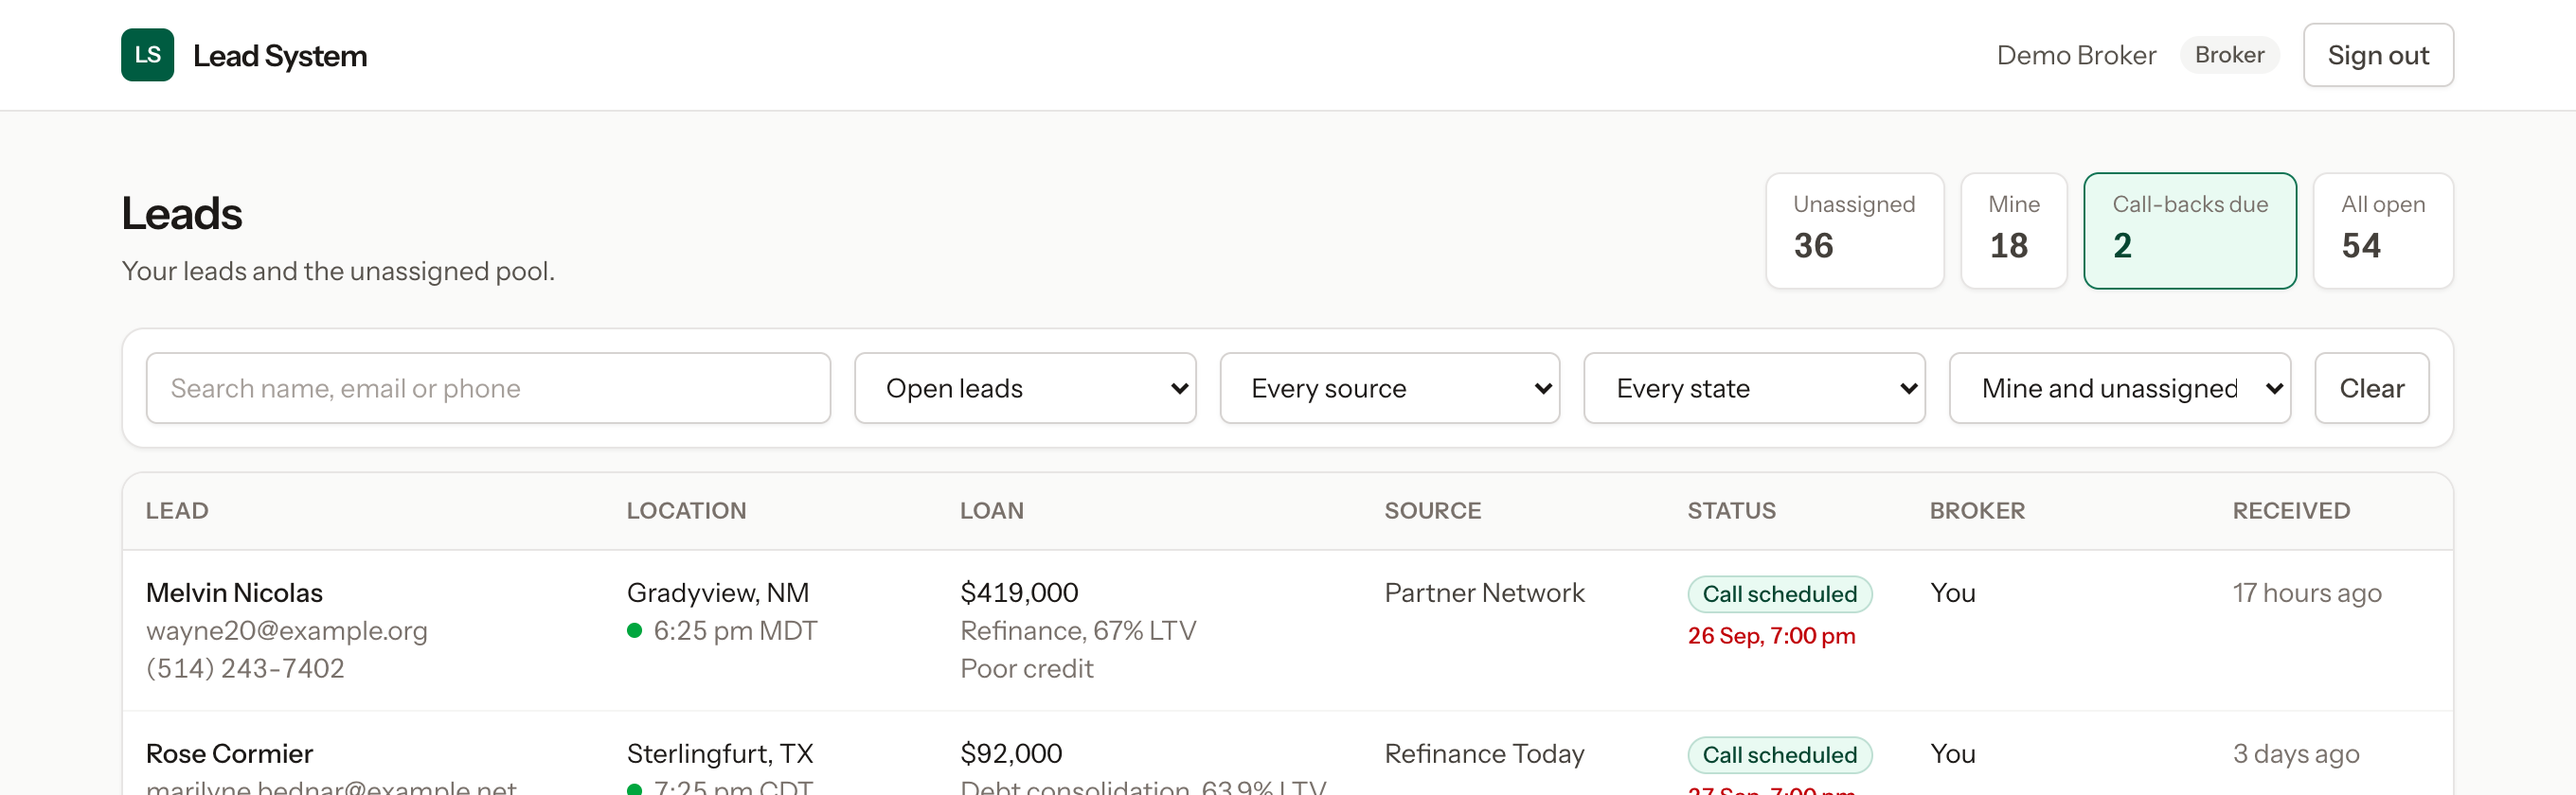
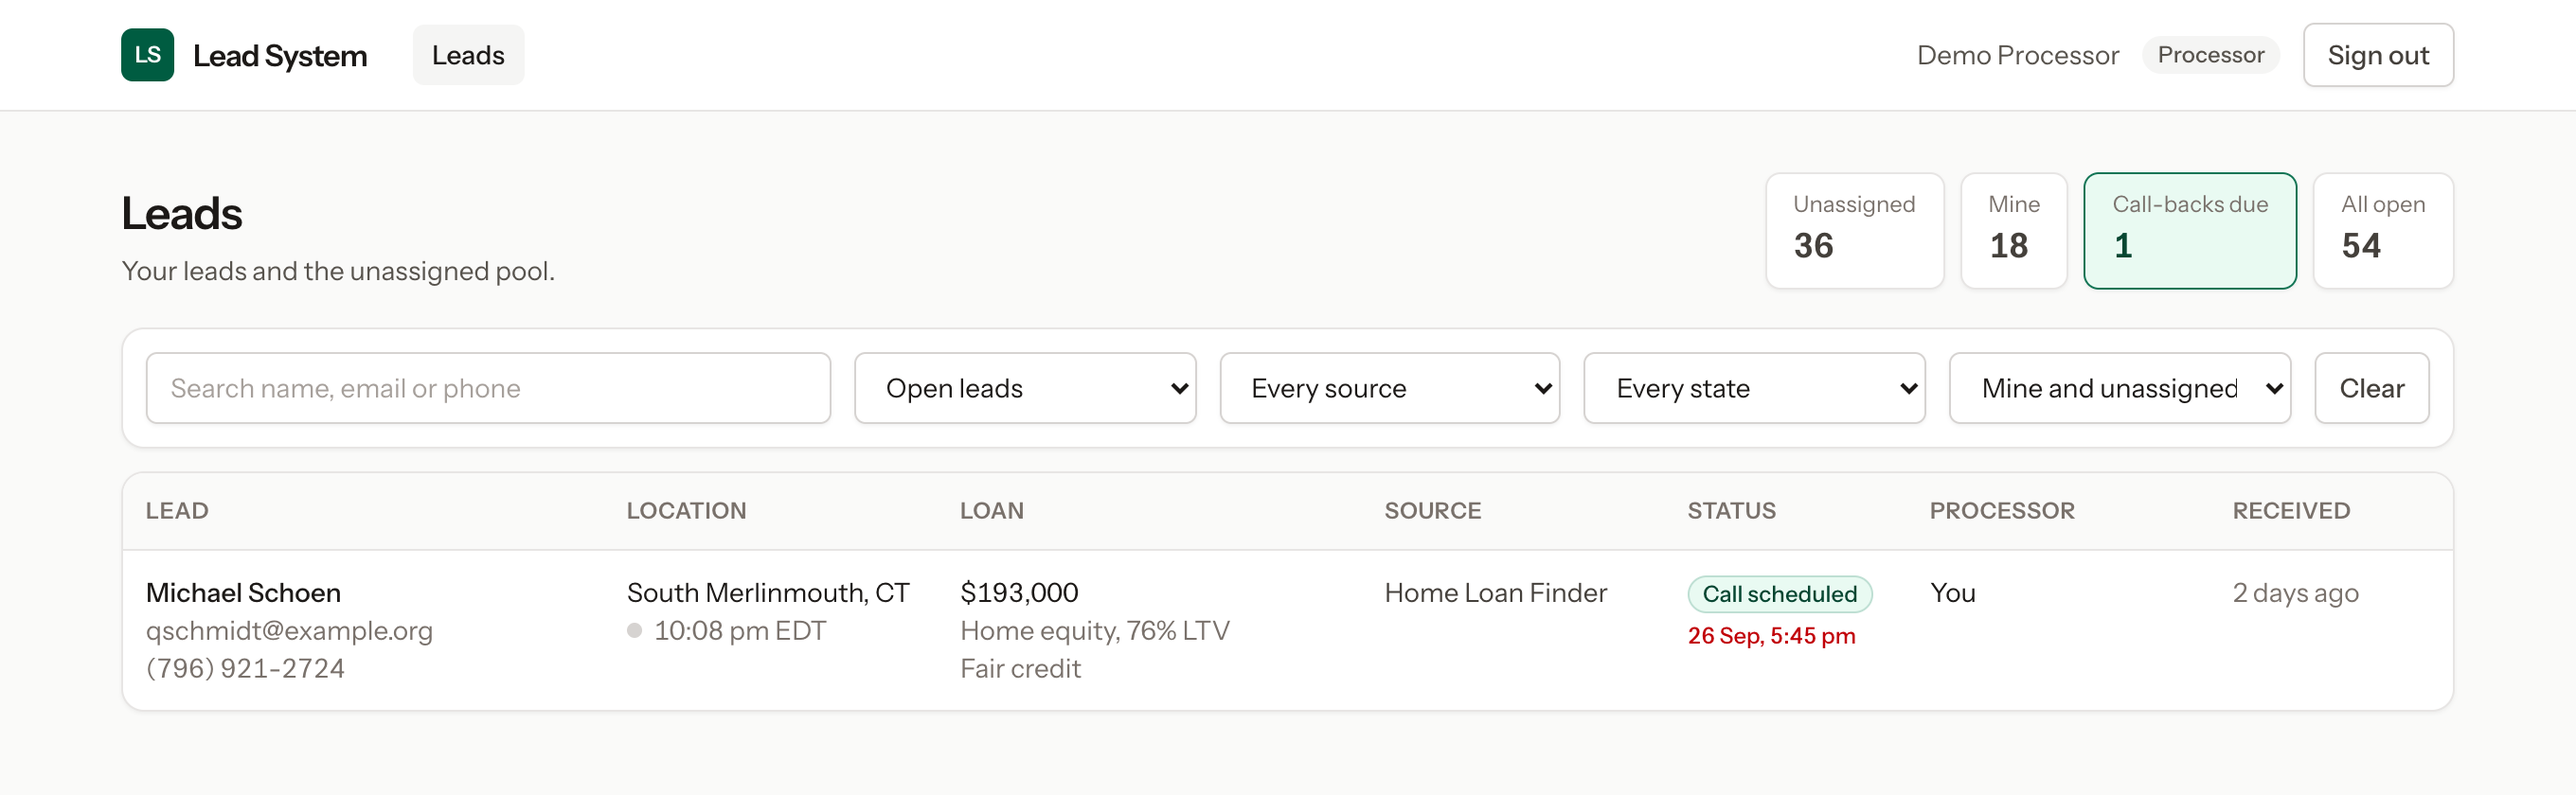
Describe routing, demo mode and hosting in the README
Add the seven stages a lead passes through and how much of each is
rebuilt, the buyer matching excerpt, new screenshots, and the one-time
steps for hosting the demo. The first deploy now writes its own .env
for the demo, so nothing has to be typed on the server.

diff --git a/README.md b/README.md
@@ -6,14 +6,28 @@ I wrote the original in plain PHP. It captured leads from a network of websites,
 
 ![The lead inbox, signed in as an admin](docs/screenshots/inbox.png)
 
+## The path of a lead
+
+The case study describes seven stages. This is how much of each the rebuild covers.
+
+| Stage | In this rebuild |
+|---|---|
+| Capture | `POST /api/v1/leads`, with one token per sending site |
+| Qualify | Validation and recorded consent. The original's fraud and weak-lead flags are not rebuilt |
+| Verify by phone | The inbox, call logging and call-backs |
+| Clean | Not rebuilt |
+| De-duplicate | At intake, and again at routing: a buyer never gets the same lead twice |
+| Match | Each buyer's rules, checked from the best tier down |
+| Route | The delivery is recorded with buyer, price and time. Nothing is sent to a real buyer |
+
 ## Then and now
 
 Every figure in the 2005 column was measured from a copy of the original code as it stood in late 2005.
 
 | | 2005 | 2026 |
 |---|---|---|
-| List, action and schedule screens | 28 files and 13,261 lines, counting the per-lender, Spanish and backup copies | 2 Livewire components and their views, 874 lines |
-| A lender gets its own view | Copy the pages. One lender's copy of the action page is 95% identical to the original | Not rebuilt. It would be a filter on the one inbox |
+| List, action and schedule screens | 28 files and 13,261 lines, counting the per-lender, Spanish and backup copies | 2 Livewire components and their views, 931 lines |
+| A buyer's requirements | In copies of the pages, one set per lender. One lender's copy of the action page is 95% identical to the original | A row in `buyers`. An admin changes a field and the next lead is routed by it |
 | Where a lead came from | A `sitenum` number stamped on the lead | A `lead_sources` row with its own intake token |
 | Database access | 55 files open their own connection and 42 carry the password in source | One connection, configured in `.env` |
 | Lead status | `actionlevel` integers: 0, 1, 20, 30, 31, 99 | A `LeadStatus` enum |
@@ -22,7 +36,7 @@ Every figure in the 2005 column was measured from a copy of the original code as
 | History | One `action` column on the lead, overwritten each time | One row per action, with who and when |
 | Passwords | Plain text | Hashed, with sign-in locked after five failed attempts |
 | Versions | `_backup`, `_test`, `x_`, `.vaf` and `-3` in the file names | Git |
-| Automated tests | None | 146 |
+| Automated tests | None | 221 |
 
 ### Changing a lead
 
@@ -70,18 +84,44 @@ public function isWithinCallingHours(CarbonImmutable $at): bool
 }
 ```
 
+### Which buyer gets the lead
+
+The copy of the 2005 code I still have does not contain the routing engine, so there is no excerpt to set beside this one. I rebuilt matching and routing from how the business worked, as the case study describes it.
+
+Each rule has a name. The lead's page can then say which rule sent the lead elsewhere.
+
+```php
+return match (true) {
+    ! $buyer->active => SkipReason::Paused,
+    $alreadySent => SkipReason::AlreadySent,
+    ! $this->servesState($buyer, $lead) => SkipReason::StateNotServed,
+    ! $this->servesZip($buyer, $lead) => SkipReason::ZipNotServed,
+    ! $this->buysLoanType($buyer, $lead) => SkipReason::LoanTypeNotBought,
+    $buyer->min_loan_amount !== null && $lead->loan_amount < $buyer->min_loan_amount => SkipReason::LoanTooSmall,
+    $buyer->max_loan_amount !== null && $lead->loan_amount > $buyer->max_loan_amount => SkipReason::LoanTooLarge,
+    $buyer->min_credit_rating !== null && ! $lead->credit_rating->meets($buyer->min_credit_rating) => SkipReason::CreditTooLow,
+    $buyer->daily_cap !== null && $deliveredToday >= $buyer->daily_cap => SkipReason::CapReached,
+    default => null,
+};
+```
+
 ## What it does
 
 - **Receives leads** at `POST /api/v1/leads`. Each sending site has its own token.
 - **Refuses a lead without consent** and records when and from which IP address consent was given.
 - **Spots repeats.** The same email from the same site within 30 days returns the lead already on file.
 - **Lists leads in one inbox**, filtered by search, status, source, state and owner. The filters live in the URL.
-- **Separates roles.** An admin sees every lead and assigns them. A processor sees their own leads and the unassigned pool.
+- **Separates roles.** An admin sees every lead, assigns them and sets the buyers' rules. A processor sees their own leads and the unassigned pool.
 - **Keeps a history.** Calls, messages, notes, assignments and call-backs are each a row with a name and a time.
 - **Books call-backs** in the lead's local time, and refuses any outside 8 am to 9 pm for the lead.
 - **Shows what is due.** The inbox lists call-backs whose time has arrived, soonest first.
+- **Routes a verified lead** to the best buyer whose rules it meets and whose daily cap has room.
+- **Explains every routing.** The lead's page shows who took the lead, at what price, and why each other buyer did not.
+- **Keeps a rejected bucket** for verified leads that no buyer could take.
 
-![A lead's page, signed in as the processor who holds it](docs/screenshots/lead.png)
+![A routed lead, with the decision made about each buyer](docs/screenshots/lead.png)
+
+![The buyers and their rules](docs/screenshots/buyers.png)
 
 ![Call-backs that are due](docs/screenshots/call-backs-due.png)
 
@@ -90,11 +130,15 @@ public function isWithinCallingHours(CarbonImmutable $at): bool
 | Decision | Where |
 |---|---|
 | Two processors cannot both take the same lead | `app/Actions/ClaimLead.php` |
+| One lead is routed at a time, so two leads cannot both take a buyer's last place under its cap | `app/Actions/RouteLead.php` |
+| A buyer can never be sent the same lead twice, enforced by a unique index | `database/migrations` |
+| Routing decisions are stored as they were worded at the time, because rules and caps change afterwards | `app/Models/RoutingAttempt.php` |
+| A buyer's cap counts from midnight where the business is, not where the server is | `app/Models/Buyer.php` |
 | A colleague's lead answers 404, so the page does not confirm it exists | `app/Livewire/LeadDetail.php` |
 | A lead handed to a colleague while your page is open sends you back to the inbox | `app/Livewire/LeadDetail.php` |
 | Filter values from the URL are checked against known lists before they reach a query | `app/Livewire/LeadInbox.php` |
 | A call-back typed as 31 February is refused, not rolled into March | `app/Rules/CallableTime.php` |
-| Who may see, work, take and assign a lead | `app/Policies/LeadPolicy.php` |
+| The command that wipes the demo refuses to run unless demo mode is on | `app/Console/Commands/ResetDemo.php` |
 
 ## Run it
 
@@ -116,8 +160,10 @@ Then open `http://127.0.0.1:8000` and sign in with a demo account. Both use the 
 
 | Account | Sees |
 |---|---|
-| `admin@example.com` | Every lead, and can assign them |
+| `admin@example.com` | Every lead, and the buyers and their rules |
 | `processor@example.com` | Their own leads and the unassigned pool |
+
+To sign in with one click, set `DEMO_MODE=true` in `.env`.
 
 To send a lead in, use the demo token of one of the seeded sources:
 
@@ -137,7 +183,32 @@ The first call answers `201`. Sending the same lead again answers `200` with `"d
 php artisan test
 ```
 
-The 146 tests cover lead intake, the inbox filters, who may see and change which lead, the race between two processors, call logging, and call-back times across time zones and daylight saving.
+The 221 tests cover lead intake, the inbox filters, who may see and change which lead, the race between two processors, call logging, call-back times across time zones and daylight saving, every buyer rule, caps, tier fallback, the rejected bucket and demo mode.
+
+## Demo mode
+
+Setting `DEMO_MODE=true` prepares the app to be shown in public:
+
+- The sign-in page offers one-click sign-in as the admin or a processor.
+- A banner on every page says the data is invented.
+- Search engines are asked to stay away.
+- The database is rebuilt with fresh invented data every hour.
+
+Never turn it on where there are real leads. The hourly rebuild deletes everything.
+
+## Hosting the demo
+
+The workflow in `.github/workflows/test-and-deploy.yml` tests every push. On `main` it also deploys to a Cloudways application. The server never runs Composer or npm: the code arrives with `vendor/` and `public/build/` already built.
+
+One-time setup:
+
+1. **Cloudways:** create a PHP application, set its web root to `public_html/public`, add the domain and turn on SSL.
+2. **Cloudways:** turn Varnish off for the application, because the pages depend on who is signed in.
+3. **Cloudways:** add a cron job that runs every minute, so the hourly reset happens:
+   `cd /path/to/public_html && php artisan schedule:run`
+4. **GitHub:** add the secrets `CW_HOST`, `CW_USER`, `CW_SSH_KEY` and `CW_APP_PATH`, then set the variable `DEPLOY_ENABLED` to `true`.
+
+The first deploy writes a `.env` for the demo on the server. Later deploys leave it alone.
 
 ## How this was built
 
@@ -146,7 +217,8 @@ I wrote the original by hand. The 2026 rebuild was written with Claude Code, an 
 ## What is not here
 
 - **The 2005 code.** It holds real people's details and live passwords, so it stays private. The excerpts above contain neither.
-- **Parts of the original I left out:** sending leads on to lenders, the Spanish pages, the separate debt-lead pages, the newsletter, the link directory, affiliate sign-up, the IP lookups, the site status checker, the Excel and Word exports, the autoresponder emails and the reports.
+- **Parts of the original I left out:** delivery to a buyer's own systems, selling one lead to several buyers, fraud and weak-lead flags, data cleaning, the Spanish pages, the separate debt-lead pages, the newsletter, the link directory, affiliate sign-up, the IP lookups, the site status checker, the Excel and Word exports, the autoresponder emails and the reports.
+- **Real names.** Every lead, buyer and source in the demo data is invented.
 - **Legal compliance.** Consent capture and calling hours are here to show the approach. A real lead business needs its own legal review.
 
 ## Built with
